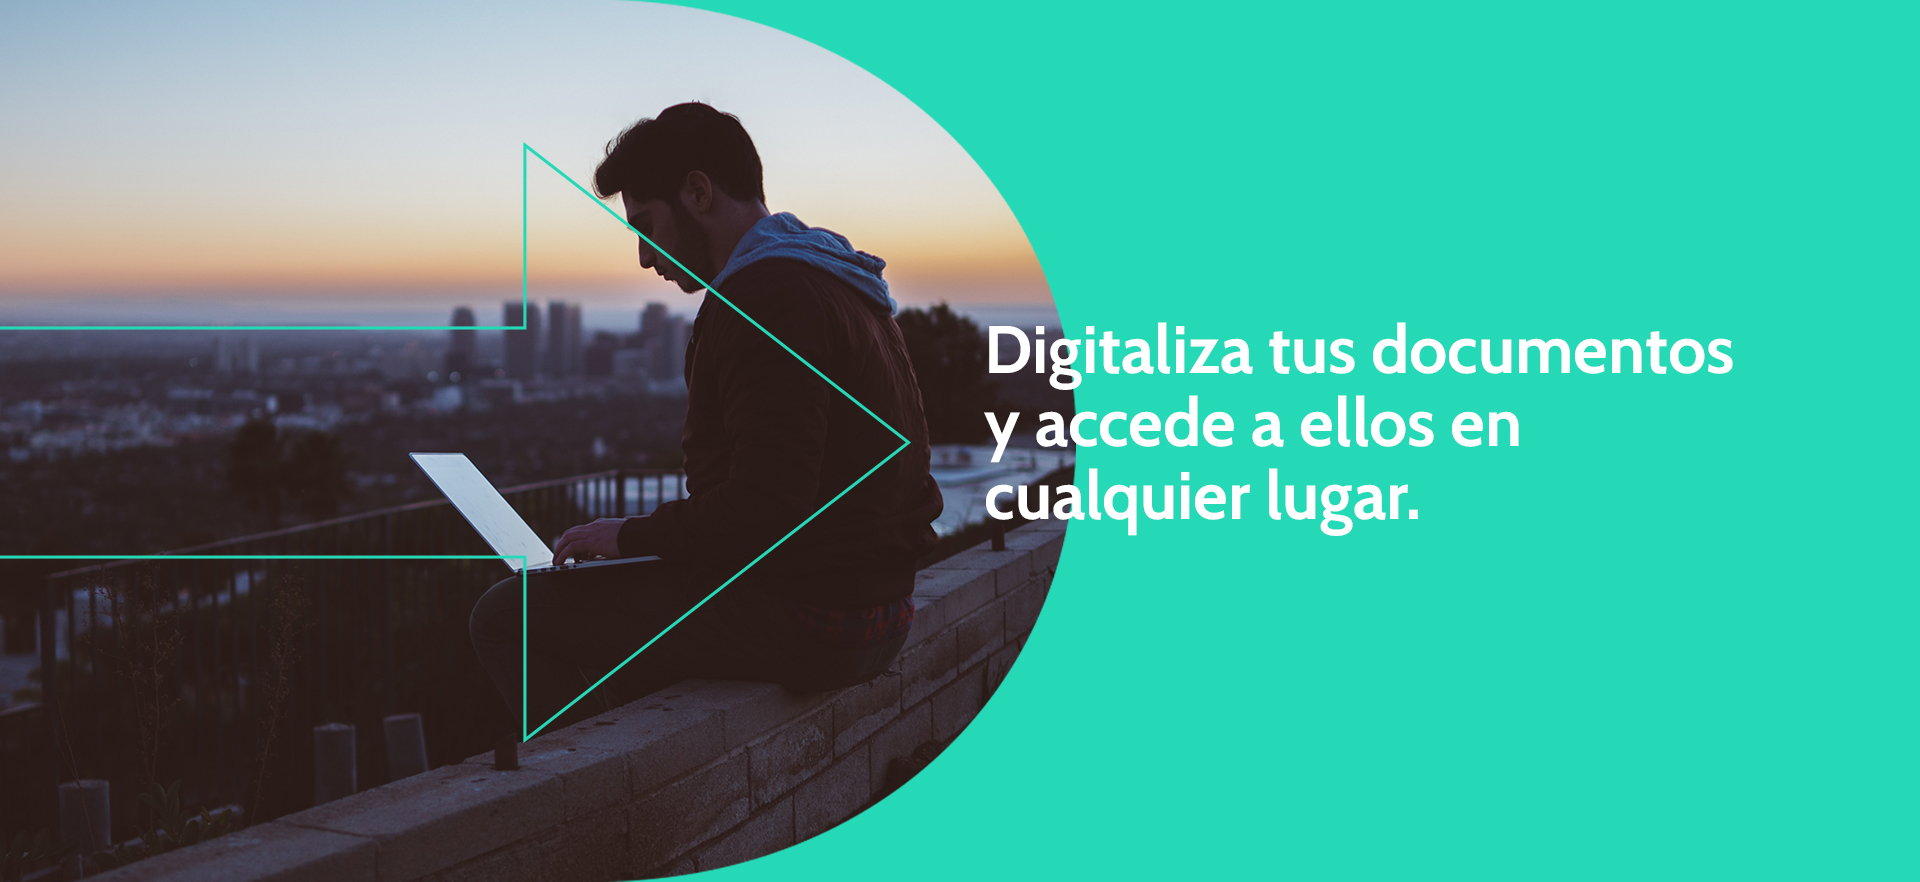
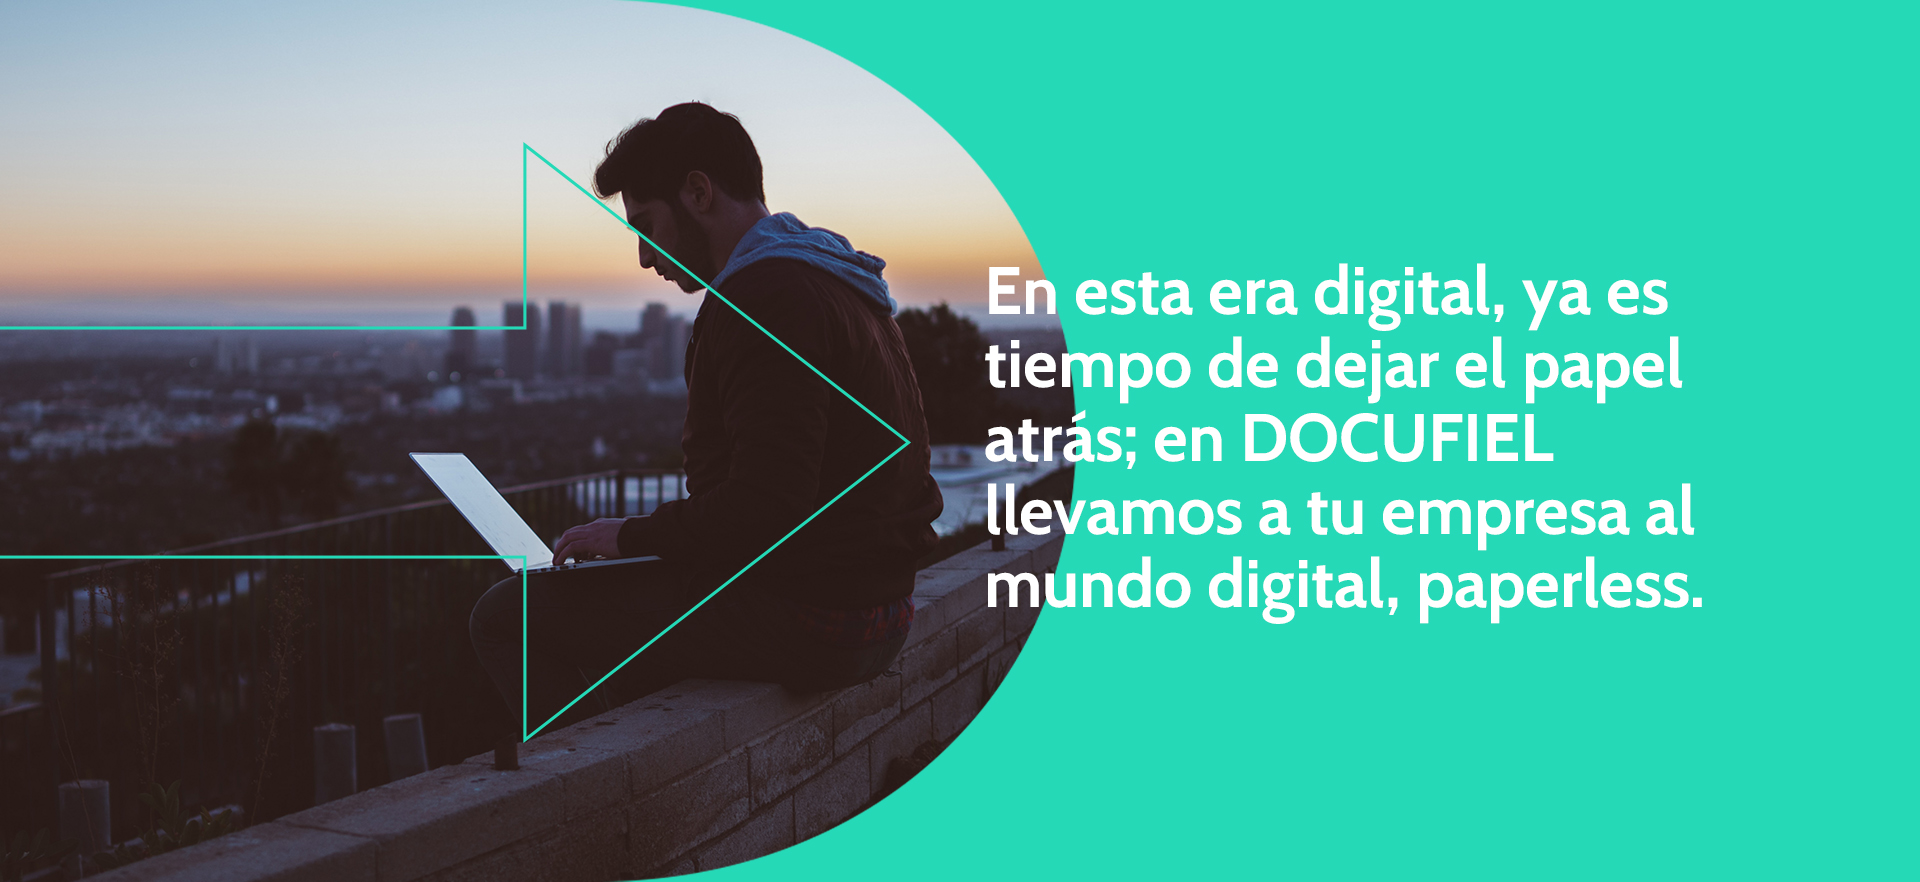
New hero image + updated texts + deleted paragraphs on Simple Cards + new Card Holder.

Changed region(s): [[0.5, 0.3061, 0.9062, 0.6122], [0.5, 0.6429, 0.9062, 0.7041]]

diff --git a/src/pages/Index.vue b/src/pages/Index.vue
@@ -4,53 +4,60 @@
       <simple-hero>
       </simple-hero>
       <text-banner-no-column class="text-banner-no-column">
-        <h1 class=""><span>Tus documentos digitalizados son comparados en con el original para verificar</span> <span>su fidelidad y así mantener su valor probatorio. Esta verificación es</span>
-          <span>certificada por la Secretaría de Economía y conforme</span> <span>a la Norma Oficial Mexicana NOM-151-SCFI-2016.</span></h1>
+          <h1 class=""><span>En DOCUFIEL, brindamos los servicios de Digitalización de documentos;</span> <span>Inventario y conciliación de activos. Etiquetado y plaqueo de activos;</span> <span>y Valuación de activos tangibles e intangibles.</span></h1>
       </text-banner-no-column>
       
+      <card-holder-mixed-columns class="three-columns no-icons">
+        <simple-card>
+          <h4>Digitalización de documentos</h4>
+          <p>Digitalizamos todos los tamaños de documentos en forma masiva, como carta, oficio y doble carta; así como tamaños especiales, ya sean pedimentos, facturas cheques, boletos, entre otros. Así mismo, nos especializamos en la digitalización de todo tipo de planos arquitectónicos, industriales, eléctricos, entre otros.</p>
+        </simple-card>
+        <simple-card>
+          <h4>Inventario y conciliación de activos, etiquetado y plaqueo de activos</h4>
+          <p>
+            <span>Tener un buen y completo inventario brinda información contable confiable para la toma de decisiones y permite establecer planes de optimización y gestión de usos de activos. </span>
+            <span>El inventario se puede realizar sobre todos los activos identificables de la compañía: propiedades inmobiliarias, instalaciones, maquinarias, equipos de cómputo, muebles y útiles, accesorios y enseres diversos, obras civiles, existencias, entre otros.</span>
+          </p>
+        </simple-card>
+        <simple-card>
+          <h4>Valuación de activos tangibles e intangibles</h4>
+          <p>Una correcta valoración contable de los activos en el balance de las compañías es clave desde un punto de vista financiero y fiscal. Valuamos todo tipo de activos, maquinaria y equipo, inmuebles, intangibles, entre otros.</p>
+        </simple-card>
+      </card-holder-mixed-columns>
+
       <text-banner class="beneficios">
         <h2 class="beneficios__title">Beneficios de Docufiel</h2>
       </text-banner>
       
       <card-holder-mixed-columns class="three-columns">
         <simple-card>
-          <g-image src="~/assets/images/reduccion-costos.png" alt="Reducción de costos"></g-image>
-          <h4>Reducción de costos de almacenamiento</h4>
-          <p>El servicio permite mejorar la organización y gestión de las presentaciones digitales cotejadas según
-          criterios de almacenamiento electrónico ocasionando una reducción de los costos derivados del almacenamiento
-          físico.</p>
-        </simple-card>
-
-        <simple-card>
-          <g-image src="~/assets/images/destruccion-legal.png" alt="Nav Destrucción legal"></g-image>
-          <h4>Destrucción legal de documentos físicos</h4>
-          <p>Los archivos cotejados podrán ser preservados por un PSC bajo las condiciones técnicas de conservación
-          definidas por la Secretaría de Economía permitiendo la destrucción legal de documentos originales en papel.
-          </p>
-        </simple-card>
-
-        <simple-card>
-          <g-image src="~/assets/images/mayor-seguridad.png" alt="Nav Mayor seguridad"></g-image>
-          <h4>Mayor seguridad sobre los documentos</h4>
-          <p>Las digitalizaciones cotejadas son fiel reflejo del contenido original y con plenas garantías de autenticidad e integridad de los datos a lo largo del tiempo.</p>
-        </simple-card>
-
-        <simple-card>
           <g-image src="~/assets/images/validez-juridica.png" alt="Validez jurídica"></g-image>
           <h4>Validez jurídica</h4>
-          <p>El servicio permite equiparar los documentos en soporte físico	 y sus representaciones digitales conforme a la normativa regulada por la Secretaría de Economía, dotando a los archivos digitales cotejadas de validez legal ante cualquier requerimiento de terceros</p>
         </simple-card>
 
         <simple-card>
           <g-image src="~/assets/images/almacenamiento.png" alt="Almacenamiento NOM151"></g-image>
           <h4>Almacenamiento NOM151</h4>
-          <p>Las digitalizaciones cotejadas de los documentos físicos pueden ser conservados bajo un servicio de almacenamiento certificado de larga duración que somete los mensajes de datos y sus constancias NOM151 a permanentes auditorías de conservación.</p>
         </simple-card>
 
         <simple-card>
           <g-image src="~/assets/images/mejora-tiempos.png" alt="Mejora de tiempos"></g-image>
           <h4>Mejora de tiempos</h4>
-          <p>La automatización de los procesos de cotejo y almacenamiento electrónico controlados por un PSC acreditado como TLA, aumenta la eficiencia de las compañías en términos de productividad y rendimiento relacionados con la gestión interna de documentos.</p>
+        </simple-card>
+
+        <simple-card>
+          <g-image src="~/assets/images/reduccion-costos.png" alt="Reducción de costos"></g-image>
+          <h4>Reducción de costos de almacenamiento</h4>
+        </simple-card>
+
+        <simple-card>
+          <g-image src="~/assets/images/destruccion-legal.png" alt="Nav Destrucción legal"></g-image>
+          <h4>Destrucción legal de documentos físicos</h4>
+        </simple-card>
+
+        <simple-card>
+          <g-image src="~/assets/images/mayor-seguridad.png" alt="Nav Mayor seguridad"></g-image>
+          <h4>Mayor seguridad sobre los documentos</h4>
         </simple-card>
       </card-holder-mixed-columns>
 
@@ -114,7 +121,7 @@
 <script>
   export default {
     metaInfo: {
-      title: 'Digitaliza tus documentos y accede a ellos en cualquier lugar'
+      title: 'En esta era digital, ya es tiempo de dejar el papel atrás; en DOCUFIEL llevamos a tu empresa al mundo digital, paperless.'
     }
   }
 </script>
@@ -175,6 +182,9 @@
     padding: $gutter-xlarge $gutter-small;
   }
   &/deep/.card-holder__content {
+    @include respond-to("small and down") {
+      grid-row-gap: $gutter-large * 2;
+    }
     .simple-card {
       @include respond-to("small and down") {
         grid-row-gap: $gutter;
@@ -190,6 +200,19 @@
       }
     }
 
+  }
+}
+
+.no-icons {
+  &/deep/.card-holder__content {
+    @include respond-to("small and down") {
+      grid-gap: $card-holder-gap;
+    }
+    .simple-card {
+      @include respond-to("medium and up") {
+        grid-template-rows: rem($gutter-xxlarge) minmax(120px, auto);
+      }
+    }
   }
 }
 
